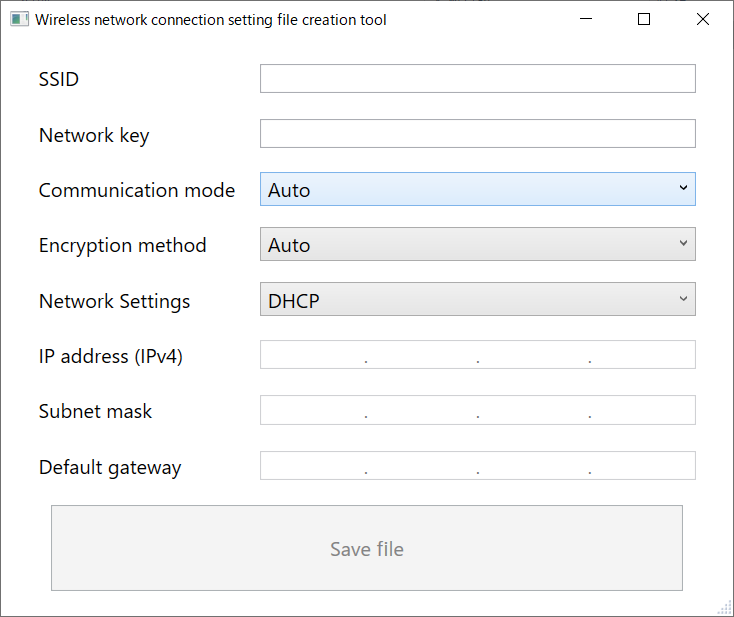
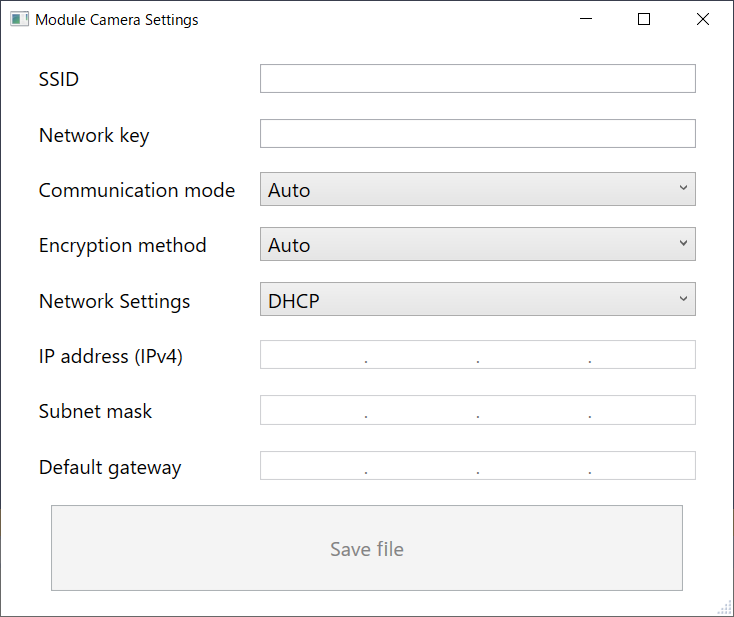
ツール名称、README.md、を更新

Changed region(s): [[0.03, 0.0, 0.5395, 0.0616], [0.9891, 0.0, 1.0, 0.8622], [0.9292, 0.2771, 0.9591, 0.3079]]

diff --git a/source/ModuleCameraSettings/Views/MainWindow.xaml b/source/ModuleCameraSettings/Views/MainWindow.xaml
@@ -6,7 +6,7 @@
     xmlns:mc="http://schemas.openxmlformats.org/markup-compatibility/2006"
     xmlns:viewModels="clr-namespace:ModuleCameraSettings.ViewModels"
     xmlns:views="clr-namespace:ModuleCameraSettings.Views"
-    Title="Wireless network connection setting file creation tool"
+    Title="Module Camera Settings"
     Width="600"
     Height="500"
     FontSize="16"

diff --git a/README.md b/README.md
@@ -1,4 +1,4 @@
-# ModuleCameraSettings
+# Module Camera Settings (mcs.exe)
 
 "__Wireless network connection setting file__" creation tool for i-PRO module camera.
 
@@ -6,28 +6,24 @@
 
 ## Summary
 
-- This is a tool to create a "__wireless network connection setting file__" for i-PRO module cameras.
+- "Module Camera Settings" is a tool to create a "__wireless network connection setting file__" for i-PRO module cameras.
 - "__Wireless network connection setting file__" is a file used for wireless connection settings of i-PRO module cameras.
 
 <img alt="tool_screen_image.png" src="image/tool_screen_image.png" width="500px">
 
----
+## How to use "Module Camera Settings" tool
 
-## How to use ModuleCameraSettings
-
-1. Launch the "ModuleCameraSettings" tool.
+1. Launch the "Module Camera Settings" tool (mcs.exe).
 1. Enter the information required for wireless connection on the tool screen.
 1. Click the [Save file] button to save the "wireless network connection setting file".
-     - __IMPORTANT__: You MUST save the filename as "MCS-INIT".
+__IMPORTANT__: You MUST save the filename as "MCS-INIT".
 1. Save the "wireless network connection setting file" to the microSD.
-     - __IMPORTANT__: You MUST save to the root of the microSD.
+__IMPORTANT__: You MUST save to the root of the microSD.
 1. Insert the microSD into the i-PRO camera body.
 1. Turn on the power of the i-PRO camera. Automatically configure wireless settings for i-PRO cameras.
-1. Setting completed
+1. Setting completed.
 
----
-
-## The way to build ModuleCameraSettings
+## The way to build "Module Camera Settings" tool
 
 You can build the source code using Visual Studio 2019/2022 or by following the steps below.
 
@@ -37,4 +33,37 @@ You can build the source code using Visual Studio 2019/2022 or by following the 
 <img alt="how_to_download_sdk.jpg" src="image/how_to_download_sdk.jpg" width="500px">
 
 2. Launch PowerShell, and execute the command "dotnet build -c Release" in the folder for saved "ModuleCameraSettings.sln".
+<img alt="PowerShell_outout_sample.jpg" src="image/PowerShell_output_sample.jpg" width="500px">
+
+---
+
+## 概要
+
+- "Module Camera Settings" は i-PRO モジュールカメラのための "__無線接続設定ファイル__" を作成するツールです。
+- "__無線接続設定ファイル__" は i-PRO モジュールカメラの無線接続設定に使用するファイルです。
+
+<img alt="tool_screen_image.png" src="image/tool_screen_image.png" width="500px">
+
+## "Module Camera Settings" ツールの使用方法
+
+1. "Module Camera Settings" ツール (mcs.exe) を起動します。
+1. ツール画面上に無線接続に必要な情報を入力します。
+1. [Save file] ボタンをクリックすることで "無線接続設定ファイル" を保存します。
+__重要__: 必ずファイル名を "MCS-INIT" として保存してください。
+1. "無線接続設定ファイル" を microSD カードに保存します。
+__重要__: 必ず microSD カードのルートに保存してください。
+1. microSD カードを i-PRO カメラへ挿入します。
+1. i-PRO カメラの電源を On にします。i-PRO カメラの無線設定を自動的に行います。
+1. 設定を完了です。
+
+## "Module Camera Settings" ツールのビルド手順
+
+Visual Studio 2019/2022 または 下記手順により、ソースコードをビルドすることができます。
+
+1. 最新版の .NET SDK をダウンロードしてインストールします。  
+[Download .NET 7.0 (Linux, macOS, and Windows) (microsoft.com)
+](https://dotnet.microsoft.com/en-us/download/dotnet/7.0)
+<img alt="how_to_download_sdk.jpg" src="image/how_to_download_sdk.jpg" width="500px">
+
+2. PowerShell を起動し、"ModuleCameraSettings.sln" ファイルを保存するフォルダーで "dotnet build -c Release" コマンドを実行します。
 <img alt="PowerShell_outout_sample.jpg" src="image/PowerShell_output_sample.jpg" width="500px">
